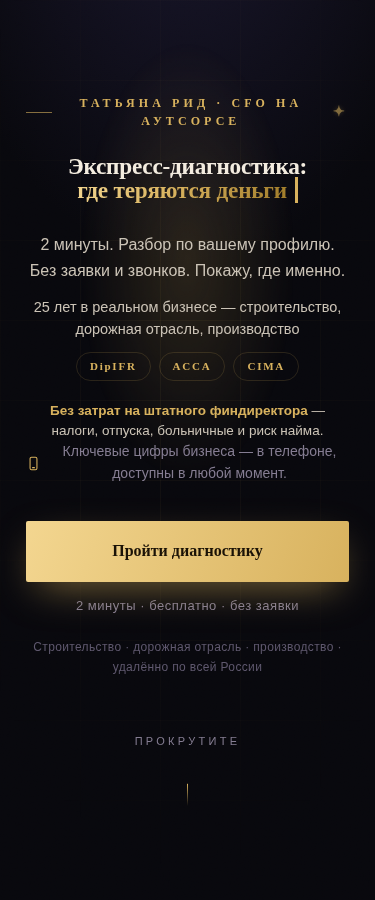
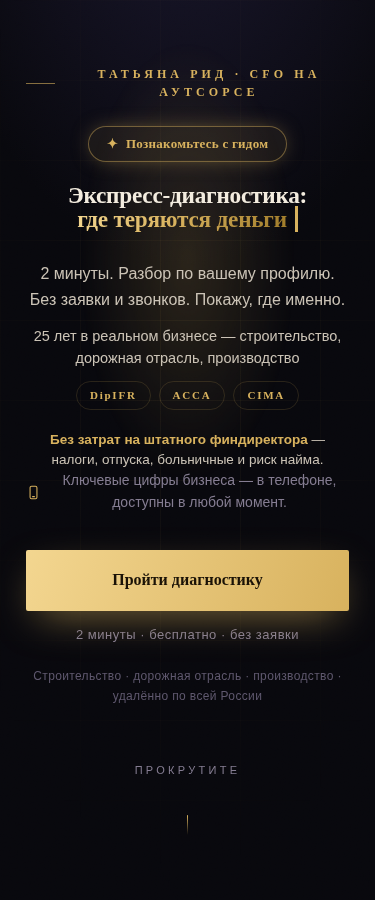
Make the guide launch obvious: spark star -> clear invite pill
Keep the bot-guide fully intact. Replace the cryptic superscript ✦ star
in the hero header (read as decoration) with an explicit, obviously
clickable pill button 'Познакомьтесь с гидом' (gold pill, border, gentle
glow-pulse, hover lift) placed under the kick. Same #waker id, so the
wake/walk behaviour is unchanged; now a native <button> (better a11y).
Hide the invite under prefers-reduced-motion (the guide is disabled there).

diff --git a/index.html b/index.html
@@ -436,10 +436,16 @@
   #guide.e-wave .g-arm{opacity:1;animation:wave .55s ease-in-out infinite}
   #guide.e-wave .g-arm::after{content:"👋"}
   @keyframes wave{0%,100%{transform:rotate(-28deg)}50%{transform:rotate(22deg)}}
-  .waker{cursor:pointer;color:var(--gold);font-size:14px;vertical-align:super;margin-left:3px;
-    pointer-events:auto;animation:wpulse 2.2s infinite;display:inline-block;border-radius:2px}
-  .waker:focus-visible{outline:2px solid var(--gold);outline-offset:2px}
-  @keyframes wpulse{0%,100%{opacity:.3}50%{opacity:1;text-shadow:0 0 12px var(--gold)}}
+  /* приглашение запустить гида — явная кликабельная плашка, а не декор */
+  .waker{display:inline-flex;align-items:center;gap:8px;cursor:pointer;margin:0 auto 22px;
+    font-family:'Manrope';font-weight:600;font-size:13px;letter-spacing:.02em;color:var(--gold);
+    background:rgba(216,178,94,.08);border:1px solid rgba(216,178,94,.45);border-radius:30px;
+    padding:9px 18px;transition:transform .25s,border-color .25s,background .25s;
+    animation:wpulse 2.8s ease-in-out infinite}
+  .waker:hover{border-color:var(--gold);background:rgba(216,178,94,.15);transform:translateY(-2px)}
+  .waker:focus-visible{outline:2px solid var(--gold);outline-offset:3px}
+  .waker-spark{font-size:13px;line-height:1}
+  @keyframes wpulse{0%,100%{box-shadow:0 0 0 0 rgba(216,178,94,0)}50%{box-shadow:0 0 22px -6px rgba(216,178,94,.55)}}
 
   /* ===== БРЕНД: персона, регалии, специализация ===== */
   .hero-cred{display:flex;flex-direction:column;align-items:center;gap:11px;margin:2px auto 20px}
@@ -472,7 +478,7 @@
 
   /* reduced-motion */
   @media(prefers-reduced-motion:reduce){
-    #guide{display:none}
+    #guide,.waker{display:none}
     .reveal{transition:opacity .4s !important;transform:none !important}
     .g-body,.hero-glow,.scrolldown span,.type,
     .g-ant::after,.g-eye{animation:none !important}
@@ -501,9 +507,11 @@
   <div class="wrap">
     <div class="kick" style="justify-content:center">
       Татьяна Рид · CFO на аутсорсе
-      <span class="waker" id="waker" role="button" tabindex="0"
-        aria-label="Разбудить гида" title="нажми ✦">✦</span>
     </div>
+    <button class="waker" id="waker" type="button"
+      aria-label="Познакомьтесь с гидом — покажу, где теряются деньги">
+      <span class="waker-spark" aria-hidden="true">✦</span> Познакомьтесь с гидом
+    </button>
     <h1>Экспресс-диагностика:<br><span class="type gold-text" id="type"></span></h1>
     <p class="hero-sub">2 минуты. Разбор по вашему профилю. Без заявки и звонков. Покажу, где именно.</p>
     <div class="hero-cred">
